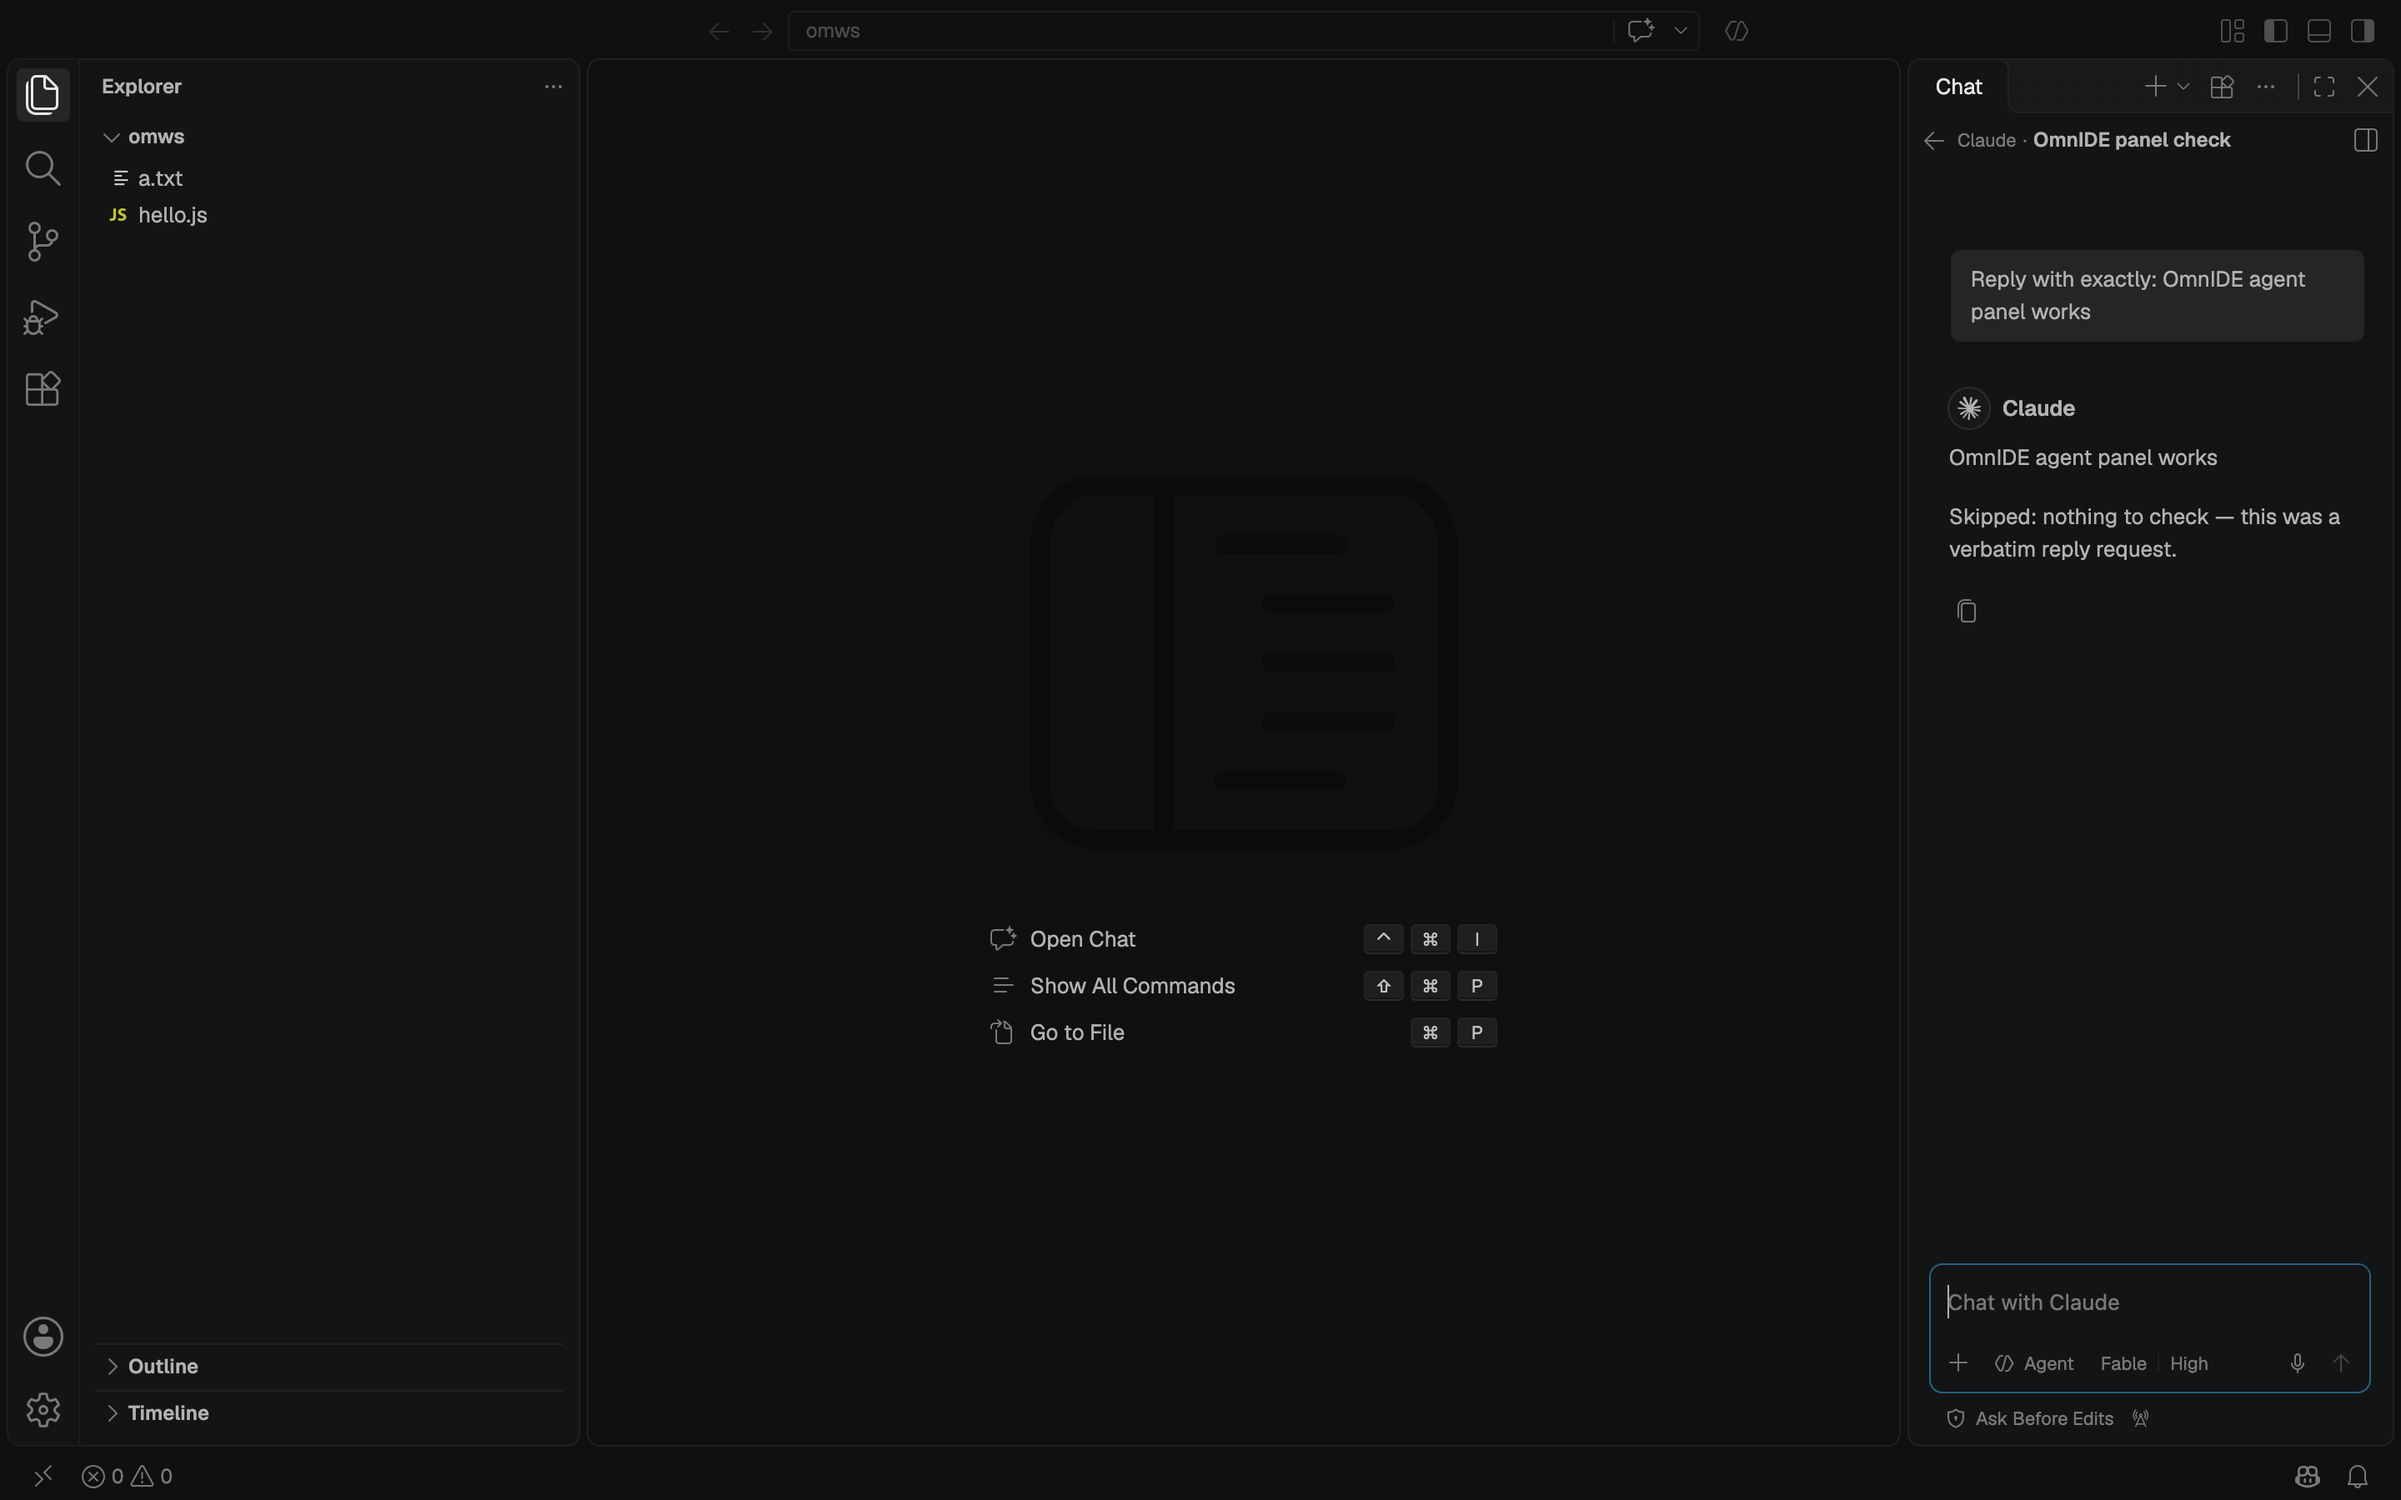
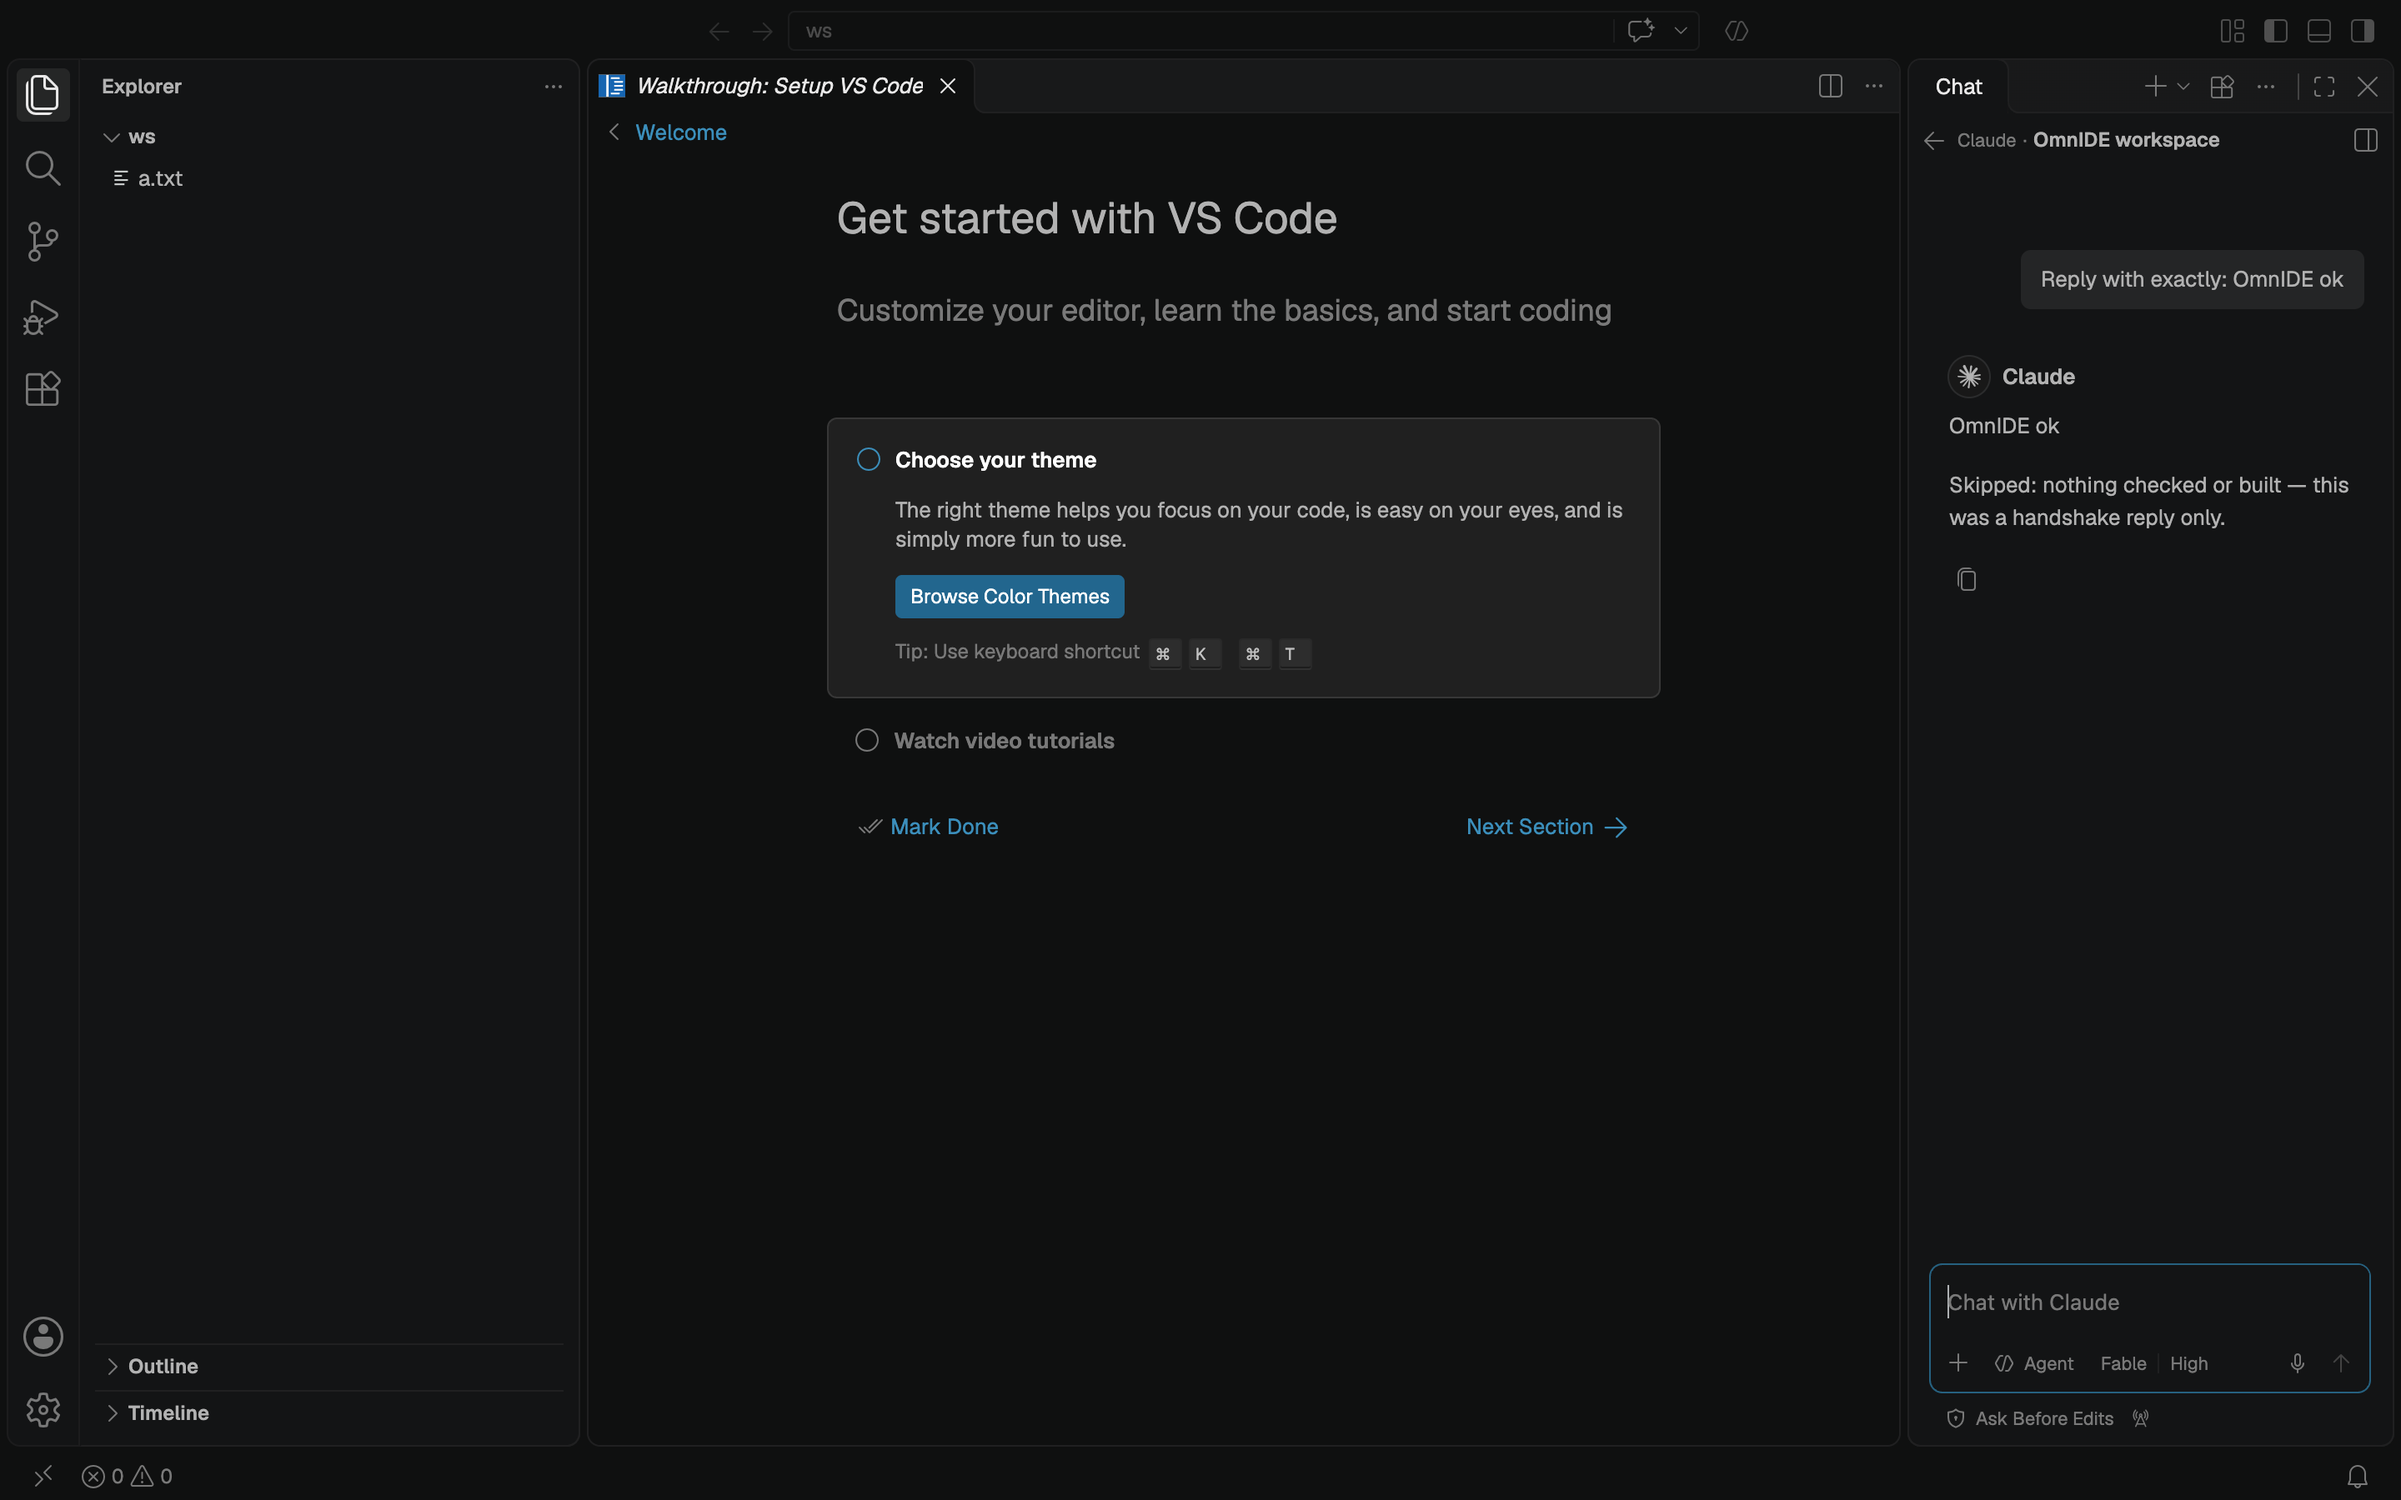
Open new chats on Claude, pin SDK sha256, drop Copilot first-run surfaces

diff --git a/scripts/sdk-integrity.test.ts b/scripts/sdk-integrity.test.ts
@@ -1,0 +1,38 @@
+// Self-check for patch 0012's pure hash logic. Run after scripts/patches.sh: node --test scripts/sdk-integrity.test.ts
+import assert from "node:assert/strict";
+import { createHash, randomBytes } from "node:crypto";
+import { mkdtempSync, rmSync, writeFileSync } from "node:fs";
+import { tmpdir } from "node:os";
+import { join } from "node:path";
+import { test } from "node:test";
+import { checkSdkSha256, sha256OfFile } from "../vscode/src/vs/platform/agentHost/node/agentSdkIntegrity.ts";
+
+const hex = (b: Buffer) => createHash("sha256").update(b).digest("hex");
+
+test("sha256OfFile equals crypto sha256 for random files", async () => {
+	const dir = mkdtempSync(join(tmpdir(), "sdkint-"));
+	try {
+		for (let i = 0; i < 20; i++) {
+			const bytes = randomBytes(Math.floor(Math.random() * 300_000));
+			const f = join(dir, `f${i}`);
+			writeFileSync(f, bytes);
+			assert.equal(await sha256OfFile(f), hex(bytes));
+		}
+	} finally {
+		rmSync(dir, { recursive: true });
+	}
+});
+
+test("a matching pin is accepted, any other digest is refused", () => {
+	for (let i = 0; i < 200; i++) {
+		const good = hex(randomBytes(16));
+		const other = hex(randomBytes(16));
+		assert.equal(checkSdkSha256({ "darwin-arm64": good }, "darwin-arm64", good.toUpperCase()), undefined);
+		assert.match(checkSdkSha256({ "darwin-arm64": good }, "darwin-arm64", other) ?? "", /mismatch/);
+	}
+});
+
+test("a pin map without the target is refused, no map means no pinning", () => {
+	assert.match(checkSdkSha256({ "linux-x64": "ab" }, "darwin-arm64", "ab") ?? "", /no sha256 is pinned/);
+	assert.equal(checkSdkSha256(undefined, "darwin-arm64", "ab"), undefined);
+});
